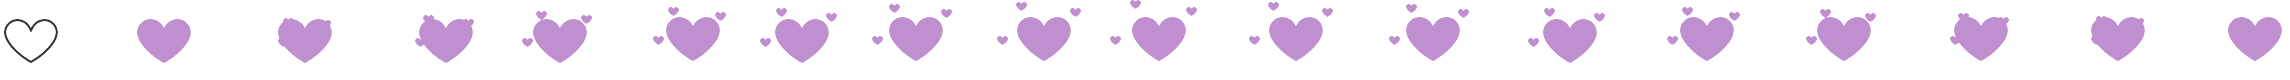
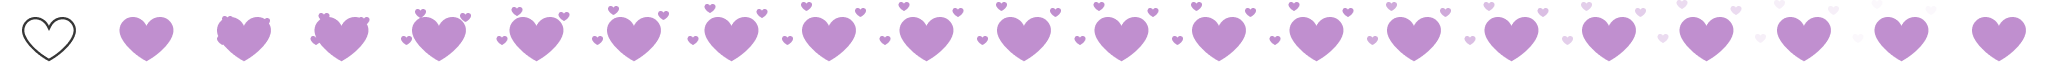
Like animation frames updated

Changed region(s): [[0.0, 0.0, 1.0, 0.7949], [0.8125, 0.0, 0.8438, 0.0769]]

diff --git a/src/components/Projects/projects.css b/src/components/Projects/projects.css
@@ -55,12 +55,12 @@
                 scale: .8;
                 width: 97.5px;
                 height: 78px;
-                background-image: url('../../../public/Group\ 62.png');
+                background-image: url('../../../public/heart-frames.png');
                 background-position: left;
 
 
                 &.active {
-                    animation: heart-bursts .9s steps(17) forwards;
+                    animation: heart-bursts .9s steps(20) forwards;
                 }
             }
         }
